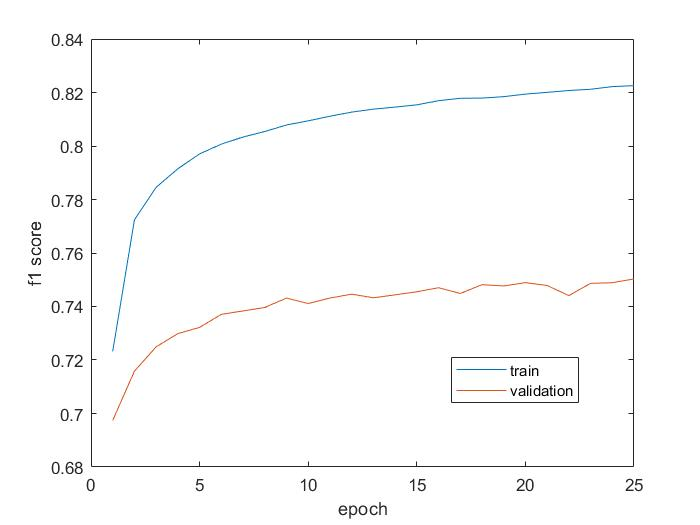
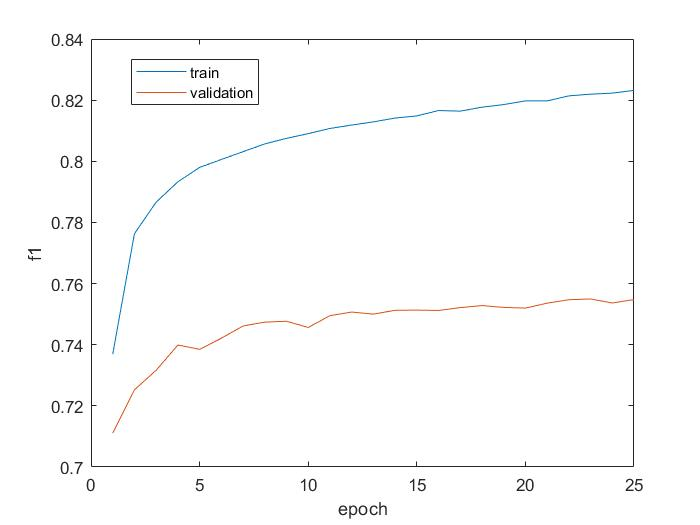
new loss

diff --git a/Siamese.py b/Siamese.py
@@ -19,7 +19,7 @@ def train(X_train, X_val, Y_train, Y_val, embedding, l, n_hidden = 50, grad = 1.
     outputL, outputR = lstm(encodedL), lstm(encodedR)
     similarity = Lambda(function = lambda x: K.exp(-K.sum(K.abs(x[0]-x[1]), axis=1, keepdims = True)), output_shape = lambda x: (x[0][0], 1))([outputL, outputR])
     model = Model([inputL, inputR], [similarity])
-    model.compile(loss = 'mse', optimizer = Adadelta(clipnorm = grad), metrics = ['acc', TPR, PPV])
+    model.compile(loss = 'binary_crossentropy', optimizer = Adadelta(clipnorm = grad), metrics = ['acc', TPR, PPV])
     return model.fit([X_train['L'], X_train['R']], Y_train, batch_size = batch, epochs = epoch, validation_data=([X_val['L'], X_val['R']], Y_val))
 
 def preprocess(filename, vsize = -1):

diff --git a/README.md b/README.md
@@ -6,10 +6,9 @@ a. # of positive samples = # of negative samples
 b. as large as possible  
 Totally, validation / (validation+training) = 12.9%  
 Result of Validation :  
-Precision: 69%  
-Recall: 82.22%  
-Accuracy: 79.74%  
-F1 score: 0.7503  
-![image](https://raw.githubusercontent.com/xyw6/Siamese/master/result/loss.jpg)  
-![image](https://raw.githubusercontent.com/xyw6/Siamese/master/result/recall.jpg)  
-![image](https://raw.githubusercontent.com/xyw6/Siamese/master/result/f1.jpg)
+Precision: 69.69%  
+Recall: 82.31%  
+Accuracy: 79.8%  
+F1 score: 0.7547  
+![image](https://raw.githubusercontent.com/xyw6/Siamese/master/result/f1.jpg)  
+![image](https://raw.githubusercontent.com/xyw6/Siamese/master/result/loss.jpg)
